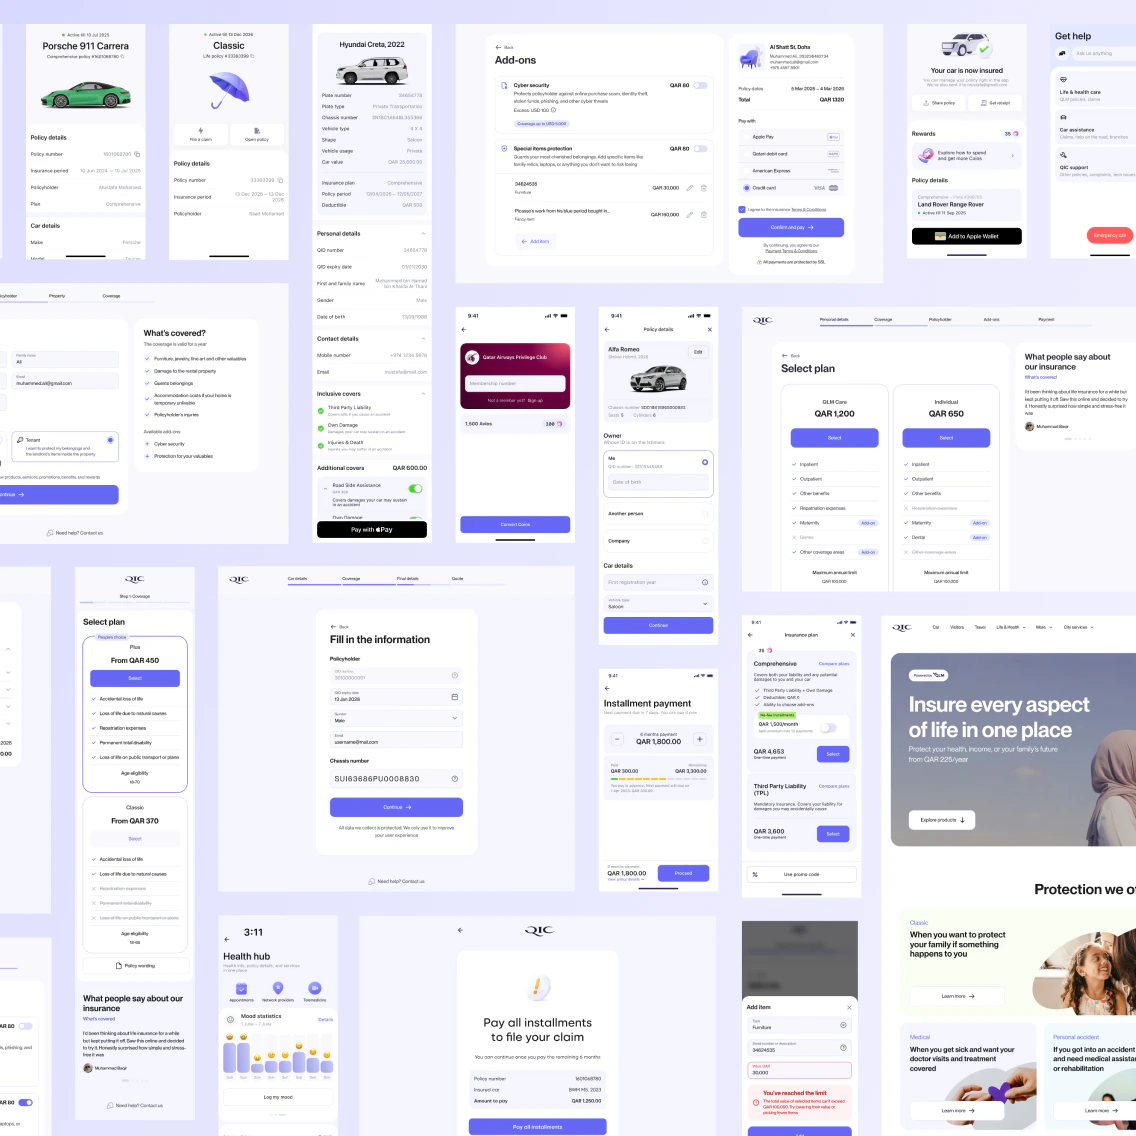
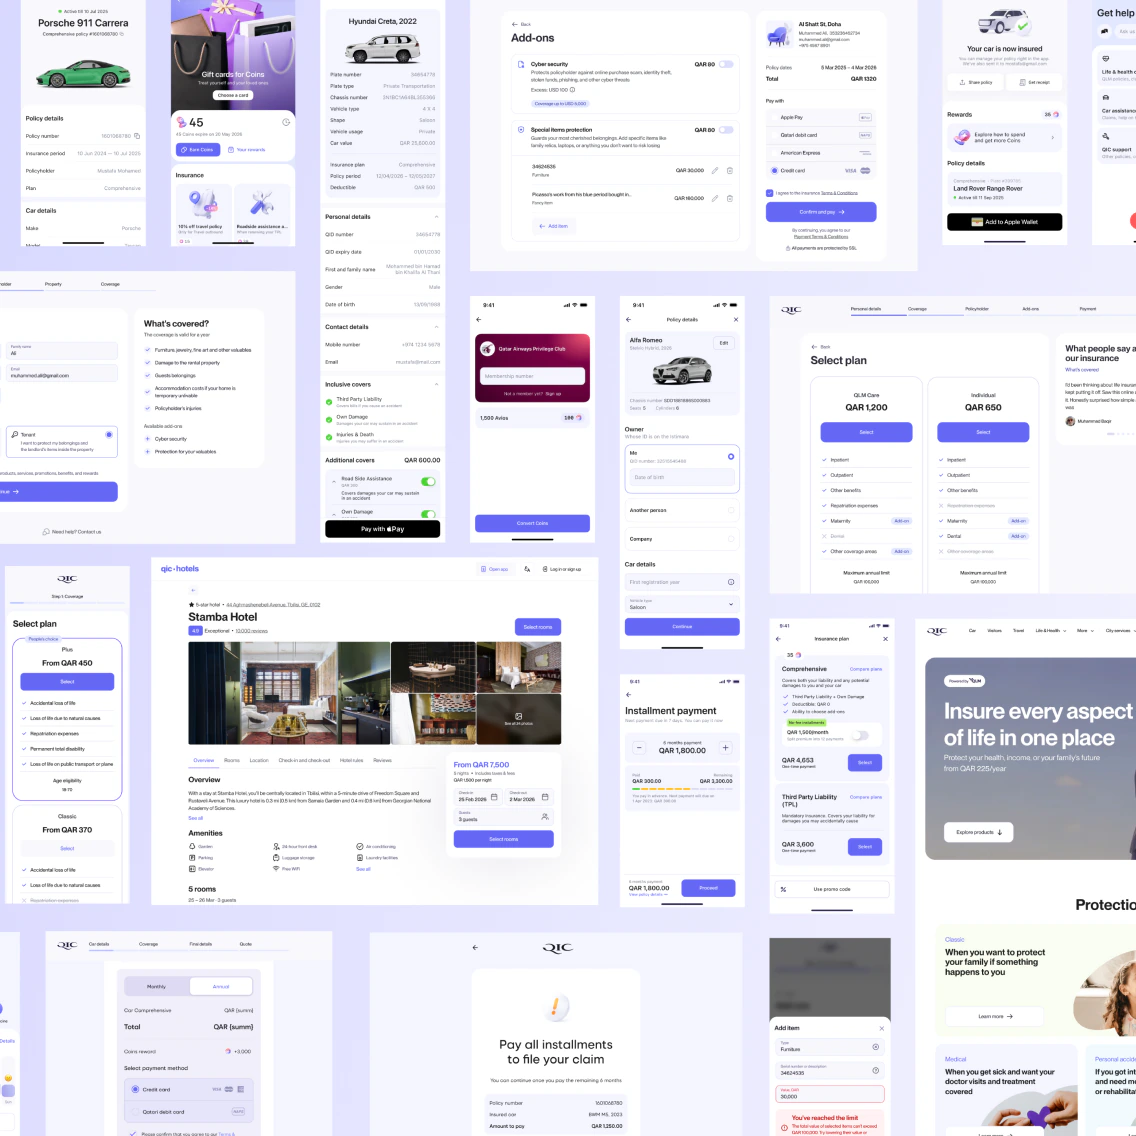
perf: rebuild remaining case images from originals
Regenerate QIC App card, Cross-Product card, and banner from lossless sources at WebP q92 so they match the rest of the quality pass.

diff --git a/app/works/cross-product-experiences/page.tsx b/app/works/cross-product-experiences/page.tsx
@@ -387,8 +387,8 @@ export default function CrossProductExperiencesPage() {
             quality={90}
             src="/images/works/cross-product-experiences/bringing-everything-together.webp"
             alt="Bringing Everything Together"
-            width={1600}
-            height={1000}
+            width={3456}
+            height={1380}
             sizes="(max-width: 1440px) 100vw, 1312px"
             draggable={false}
             style={{ width: '100%', height: 'auto', display: 'block' }}
